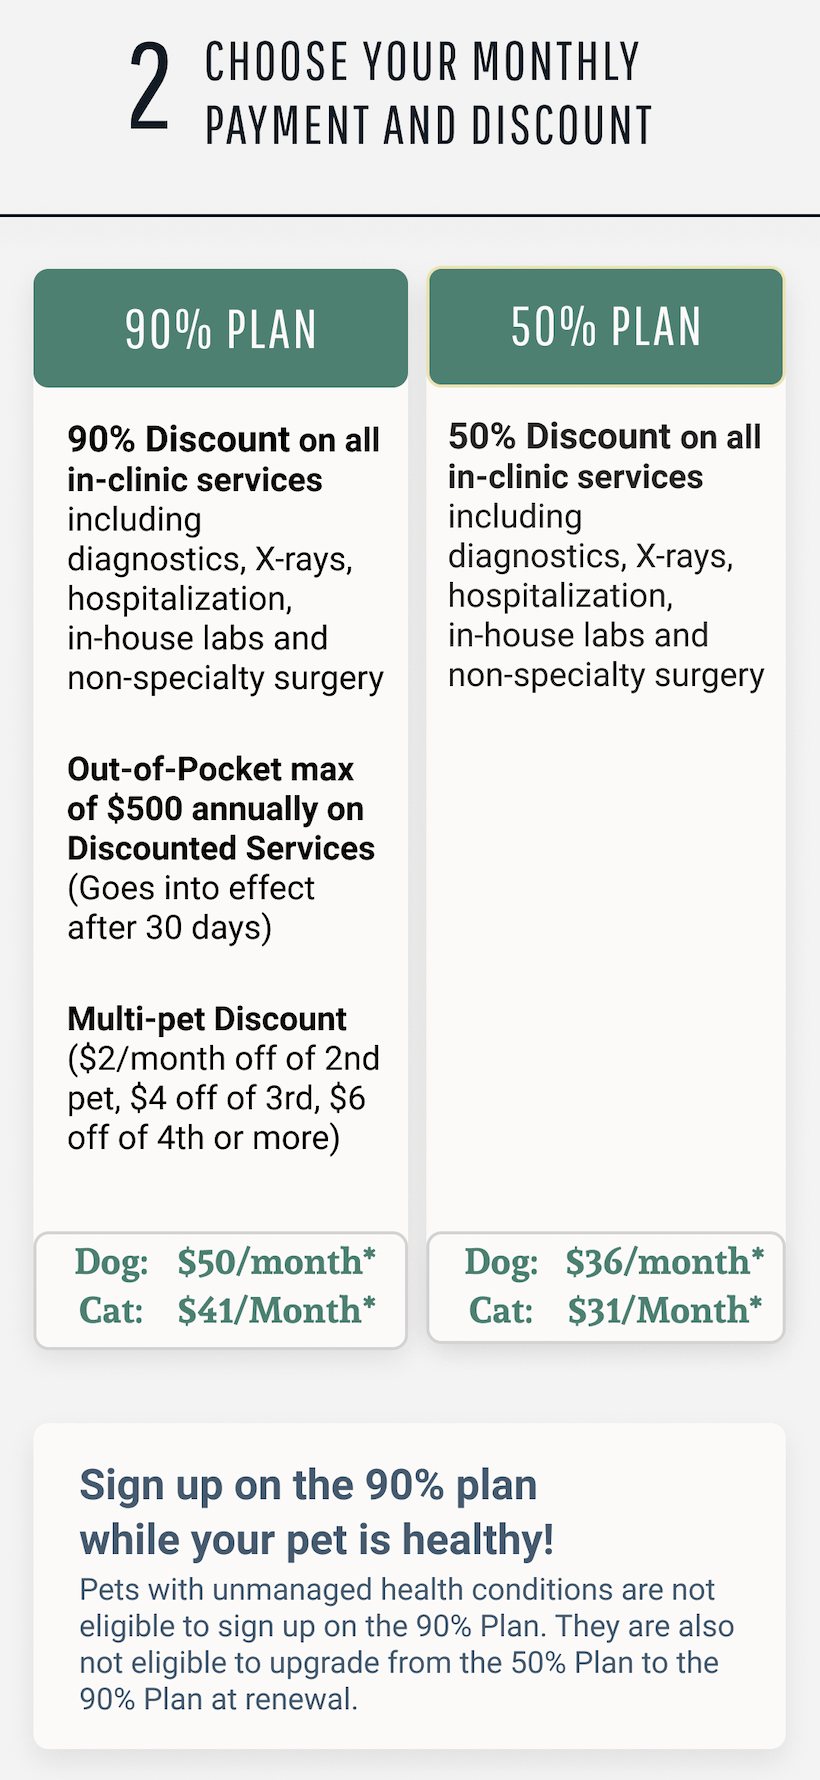
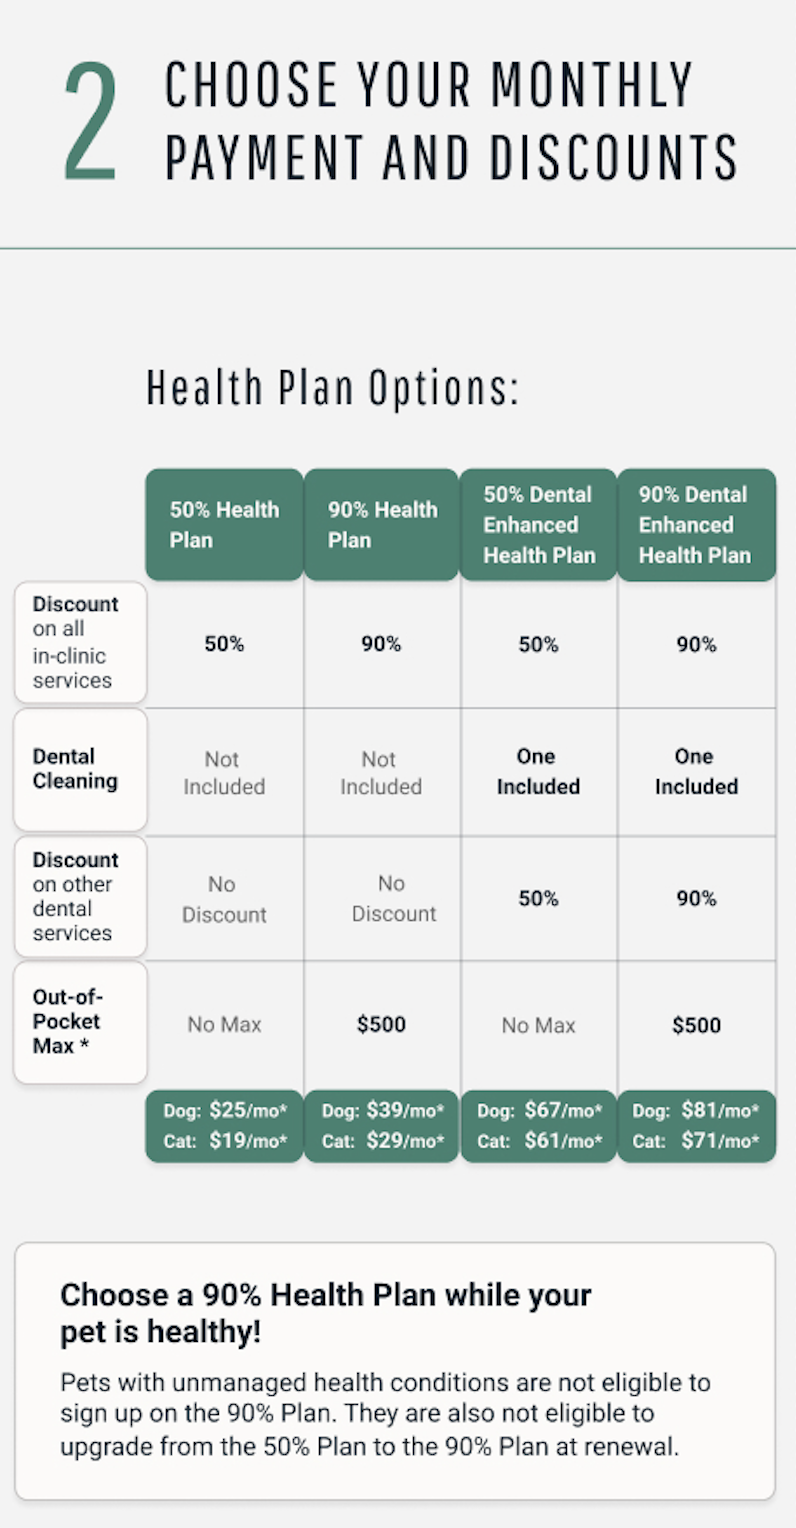
Update text and graphics for new HP DE pricing

diff --git a/healthPlan.html b/healthPlan.html
@@ -240,19 +240,32 @@
         <div class="col-lg-9 col-md-9 col-sm-9 col-xs-12">
           <h2>Twin Peaks Health Plans- A new standard in veterinary care!</h2>
 
-          <h3>
-            Each plan includes wellness care, dental cleanings, and dental
-            X-rays!
-          </h3>
+          <h3>Each Plan Includes Routine Preventative Care</h3>
 
           <p>
             At Twin Peaks, we understand that the high cost of vet care often
             prevents pets from getting basic wellness care. Because of that,
-            each of our Health Plans covers wellness care, annual dental
-            cleanings (or spay/neuter), and dental X-rays!
+            each of our Health Plans covers wellness care, a spay/neuter, and a
+            discount on Heartworm Prevention.
           </p>
 
-          <h3>Each plan is different when it comes to unexpected care</h3>
+          <h3>Get Dental Care Covered When You Need It</h3>
+
+          <p>
+            When it comes to dental care, you have options! In addition to our
+            standard Health Plans with lower payments and no dental care
+            coverage, we also have Dental Enhanced Health Plans which cover one
+            dental cleaning and provide discounts for any other dental
+            procedures that our vets do in-clinic.
+          </p>
+          <p>
+            To top it off, we allow you to upgrade at any time to a Dental
+            Enhanced Health Plan, which allows you to only pay for a Health Plan
+            with Dental Coverage on years that you want to take advantage of
+            that benefit.
+          </p>
+
+          <h3>Prepare for the Unexpected</h3>
 
           <p>
             Considering unexpected care is just as important for your pet’s
@@ -299,8 +312,8 @@
           />
           <br />
           <p>
-            * Down Payment of $120 required for 1st year, reducing monthly
-            payment by $10/month
+            Down Payment of $60 required for 1st year, reducing monthly payment
+            by $5/month
           </p>
           <p>
             The following are neither discounted nor included on a Health Plan:
@@ -313,47 +326,12 @@
           </p>
           <p>
             Upgrading or downgrading a Health Plan can only be done at renewal
+            (with the exception of upgrading to a Dental Enhanced Health Plan)
           </p>
           <p>
             Plans will automatically renew after 1 year unless otherwise
             requested
           </p>
-          <h3>Renewal Choices</h3>
-          <img
-            class="img-responsive visible-xs"
-            style="width: 90%; max-width: 400px"
-            src="assets/renewalChart1.png"
-          />
-          <img
-            class="img-responsive visible-xs"
-            style="width: 90%; max-width: 400px"
-            src="assets/renewalChart2.png"
-          />
-          <img
-            class="img-responsive visible-xs"
-            style="width: 90%; max-width: 400px"
-            src="assets/renewalChart3.png"
-          />
-          <img
-            class="img-responsive hidden-xs"
-            style="display: inline-block; width: 48%; max-width: 300px"
-            src="assets/renewalChart1.png"
-          />
-          <img
-            class="img-responsive hidden-xs"
-            style="
-              display: inline-block;
-              width: 48%;
-              max-width: 300px;
-              margin-left: 20px;
-            "
-            src="assets/renewalChart2.png"
-          />
-          <img
-            class="img-responsive hidden-xs"
-            style="max-width: 300px; padding-top: 20px"
-            src="assets/renewalChart3.png"
-          />
 
           <br />
           <button

diff --git a/js/twinPeaks.js b/js/twinPeaks.js
@@ -1,36 +1,20 @@
-/* 
+/*
  * To change this license header, choose License Headers in Project Properties.
  * To change this template file, choose Tools | Templates
  * and open the template in the editor.
  */
 
+function password() {
+  var password;
 
-function password() 
-{
-    
-	var password;
-    
-	var correct="TwinPeaks";
+  var correct = "TwinPeaks";
 
-    
+  password = prompt("Please enter your password to view this page", "");
 
-	password=prompt('Please enter your password to view this page','');
-
-  
-  
-	if (password.trim()===correct)
-        
-		window.open('contract.html','_blank');
-    
-	else
-        
-		alert('Incorrect password!');
-
+  if (password.trim() === correct) window.open("contract.html", "_blank");
+  else alert("Incorrect password!");
 }
 
-function moreInformation()
-{
-
-	var w=window.open('assets/contractI.pdf','_blank');
-
+function moreInformation() {
+  var w = window.open("assets/contractJ.pdf", "_blank");
 }

diff --git a/index.html b/index.html
@@ -254,10 +254,10 @@
           </p>
           <p>
             We strive to not only provide routine preventive care, but to also
-            help you budget for the unexpected. To accomplish this, we offer the
-            90% Health Plan and the 50% Health Plan. We are especially
-            passionate about the 90% Health Plan, which we believe is the best
-            in the industry!
+            help you budget for the unexpected. To accomplish this, we offer
+            Health Plans with varying levels of discounted and covered services.
+            We are especially passionate about our 90% Health Plans, which we
+            believe are the best in the industry!
           </p>
           <br />
           <button
